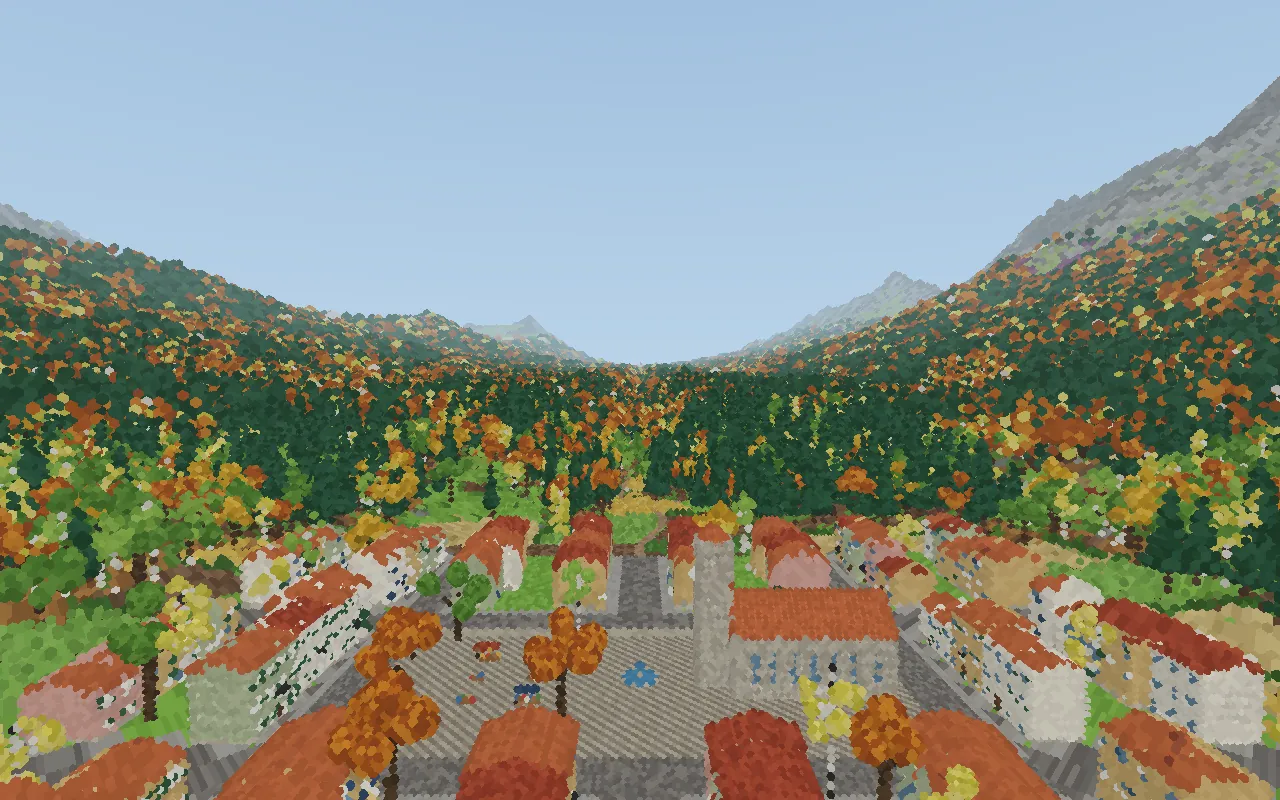
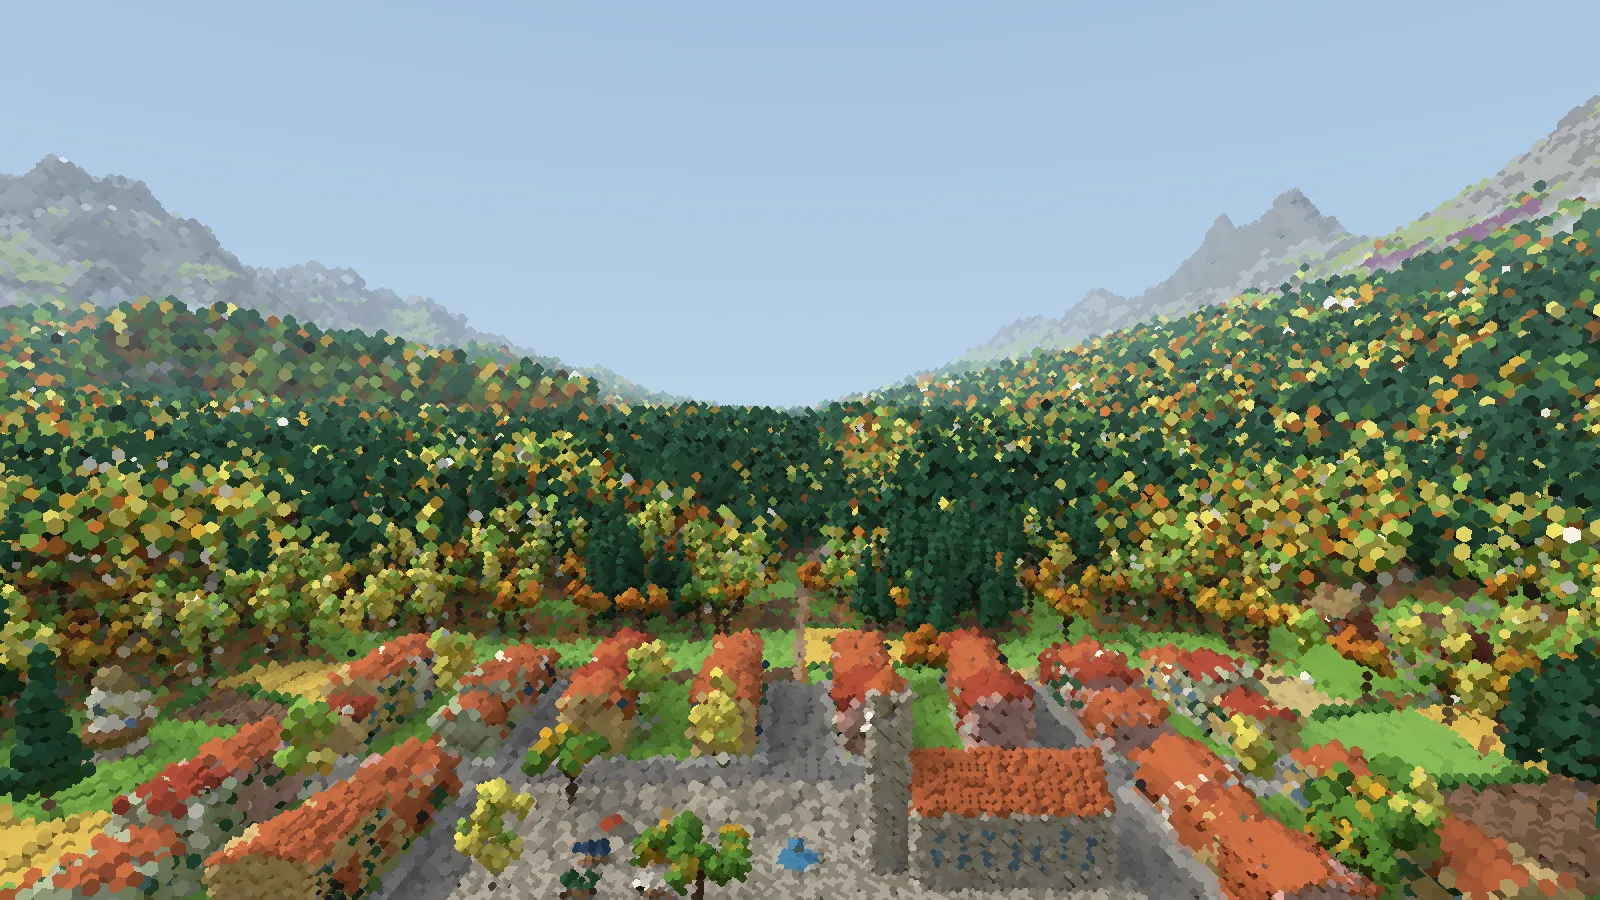
README: a gallery lit by computed light
Seven pictures, all drawn by native with --light: the forest in mist
by the railway; the town's square by day and by its lamps at night;
out of the railway's tunnel; the city at night; mist under a peak;
the valley. Each title is the arguments that draw it again, and the
note under them says the web does not light its tiles.

The web's unlit pictures go. Its views of the valley, the ranges and
the windmill were taken where the valley ran along x = 0 and no longer
showed what they said; the valley is retaken, so todo.md's item goes.

Claude-Session: https://claude.ai/code/session_01QuDWuDSJhWkadK5T83ZsF9

diff --git a/README.md b/README.md
@@ -11,29 +11,27 @@ images.
 The native one (`native/`, wgpu) draws it by rays through its voxels,
 or by chunks as the web does, cells of the lattice instead of slices.
 
-![The forest: a path under autumn birches, maples and spruces](docs/shots/forest.webp "seed=12345&camera=-14,40,-200&look=-25,6")
+![Autumn forest by the railway, mist lying among the trunks over heather](docs/shots/forest-fog.webp "--view 'seed=12345&world=valley&camera=-2231,139,13027&look=-142,1&fov=90&distance=40000' --light 4,1,0")
 
 <table>
 <tr>
-<td width="50%"><img src="docs/shots/valley.webp" alt="The valley: a town's square and church, forest up to the mountains" title="seed=12345&amp;world=valley&amp;camera=0,400,1000&amp;look=0,-3&amp;distance=40000"><br><sub>The valley, 5 km deep</sub></td>
-<td width="50%"><img src="docs/shots/town.webp" alt="A street into the town's square, its fountain and church" title="seed=12345&amp;world=valley&amp;camera=0,40,1420&amp;look=0,-6"><br><sub>The town's square</sub></td>
+<td width="50%"><img src="docs/shots/town.webp" alt="A street into the town's square, its fountain and church, by day" title="--view 'seed=12345&amp;world=valley&amp;camera=0,40,1420&amp;look=0,-6' --light 1,1,0"><br><sub>The town's square by day</sub></td>
+<td width="50%"><img src="docs/shots/town-night.webp" alt="The same square at night, lit by its street lamps" title="--view 'seed=12345&amp;world=valley&amp;camera=0,40,1420&amp;look=0,-6' --light 0.01,0,1"><br><sub>And at night, by its lamps</sub></td>
 </tr>
 <tr>
-<td><img src="docs/shots/chapel.webp" alt="A chapel by the forest path" title="seed=12345&amp;world=valley"><br><sub>A chapel by the path</sub></td>
-<td><img src="docs/shots/windmill.webp" alt="A windmill among fields and forest, seen from above" title="seed=12345&amp;world=valley&amp;camera=748,450,547&amp;look=34,-45"><br><sub>A windmill among the fields</sub></td>
+<td><img src="docs/shots/tunnel.webp" alt="From a railway tunnel's dark bore out to the forest in daylight" title="--view 'seed=12345&amp;world=valley&amp;camera=-2005,177,8336&amp;look=180,0' --light 1,1,0"><br><sub>Out of the railway's tunnel</sub></td>
+<td><img src="docs/shots/city-night.webp" alt="City blocks at night, the streets lit by lamps, lit windows" title="--view 'seed=12345&amp;world=city&amp;camera=-2,250,-150&amp;look=0,-30' --light 0.01,0,1"><br><sub>The city at night</sub></td>
 </tr>
 <tr>
-<td><img src="docs/shots/mountains.webp" alt="A crest over the treeline, a peak and a snowy massif behind" title="seed=12345&amp;world=valley&amp;camera=9571,4500,33856&amp;look=30,-5&amp;distance=40000"><br><sub>The ranges over the treeline</sub></td>
-<td><img src="docs/shots/city.webp" alt="City blocks, streets and crossings from above" title="seed=12345&amp;world=city&amp;camera=-2,250,-150&amp;look=0,-30"><br><sub>The city</sub></td>
-</tr>
-<tr>
-<td><img src="docs/shots/learned.webp" alt="A settlement in the forest, drawn by a learned grammar" title="seed=12345&amp;world=learned&amp;camera=0,450,1700&amp;look=0,-30"><br><sub>The learned town</sub></td>
-<td><img src="docs/shots/moor.webp" alt="Heather, grass, a stream and pools to the horizon" title="seed=12345&amp;world=moor&amp;camera=0,200,-200&amp;look=0,-5&amp;distance=40000"><br><sub>The moor, 5 km deep</sub></td>
+<td><img src="docs/shots/mountainside.webp" alt="Mist over the heath on a slope, spruces and a peak above it" title="--view 'seed=12345&amp;world=valley&amp;camera=6911,2128,12155&amp;look=19,4&amp;fov=90&amp;distance=40000' --light 2.5,1,0"><br><sub>Mist under a peak</sub></td>
+<td><img src="docs/shots/valley.webp" alt="The valley: a town's square and church, forest up to the mountains" title="--view 'seed=12345&amp;world=valley&amp;camera=0,400,1000&amp;look=0,-3&amp;distance=40000' --light 1,1,0"><br><sub>The valley, 5 km deep</sub></td>
 </tr>
 </table>
 
-<sub>Seed 12345, drawn by `pnpm shot`;
-each picture's view is its title (hover over it).</sub>
+<sub>Drawn by the native frontend, lit by light worked out across the world
+(the web does not light its tiles):
+`pnpm shot:native --size 1600x900 --shot out.png`
+and the picture's title (hover over it).</sub>
 
 ## Design principles
 

diff --git a/docs/todo.md b/docs/todo.md
@@ -335,9 +335,6 @@ Numbers are for the forest at 1280×800, as measured when written.
   Where the valley bends at a town,
   the track runs up to 30° off z past a building along it
   (`Station::frame` in `worlds/src/valley/railway.rs`).
-- **README's valley shots predate the winding valley** (`docs/shots/`).
-  The view down it and the ranges were taken at fixed cameras
-  where the valley ran along x = 0; retake them (`pnpm shot`).
 
 ## Light
 
